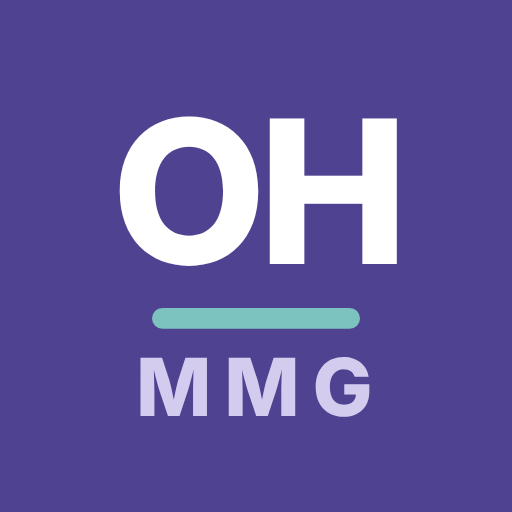
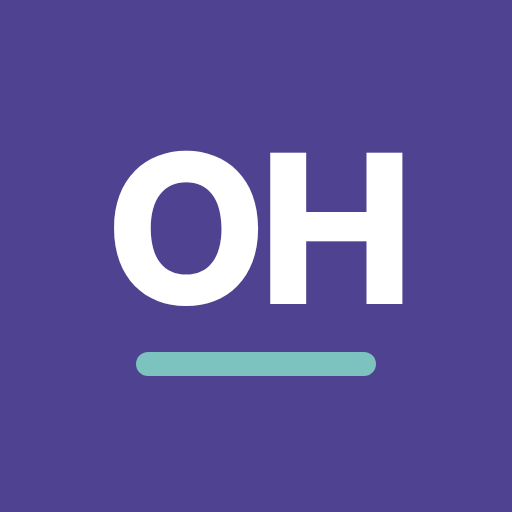
MMG: icona solo OH su fondo viola
Claude-Session: https://claude.ai/code/session_01M3RfwBbYjcxnD21wDpTYyg

Changed region(s): [[0.2188, 0.2188, 0.8125, 0.6562], [0.25, 0.6875, 0.75, 0.8125]]

diff --git a/mmg/README.md b/mmg/README.md
@@ -155,4 +155,4 @@ La scheda del paziente è solo la figura (con la strada dei 7 passi su PC). Il v
 - In intestazione compare l'etichetta «Rivalutazione dal …» finché non c'è la nuova decisione.
 - Nella home, «Da fare» propone la «Rivalutazione annuale» quando l'ultima decisione ha più di 12 mesi.
 
-**Icona propria di Osteo Help MMG** (`icone/`): stessa famiglia di Osteo Help (OH con la lineetta verde acqua) ma su fondo viola dell'app e con «MMG» sotto. Favicon SVG e 32 px, icona per la schermata Home di iPhone/iPad (180 px), icone 192 e 512 px per il manifest, più la versione «maskable» per Android. Il nome sotto l'icona resta «Osteo MMG».
+**Icona propria di Osteo Help MMG** (`icone/`): come quella di Osteo Help (OH con la lineetta verde acqua) ma su fondo viola dell'app. Favicon SVG e 32 px, icona per la schermata Home di iPhone/iPad (180 px), icone 192 e 512 px per il manifest, più la versione «maskable» per Android. Il nome sotto l'icona resta «Osteo MMG».
